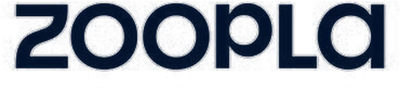
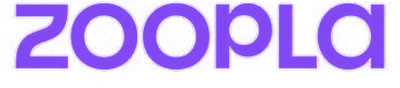
feat(wave415): the Zoopla mark in Zoopla's own purple
Callum, 19 Sep 2026 about 11:05 UK: "please ensure the Zoopla logo
appears as the Zoopla brands purple colour the same as the ribbon on
the property listing result/match card."

The colour is measured, not guessed. The operator sampled the "Powered
by Zoopla" ribbon off the live platform's property page (deal 692681,
19 Sep 12:10 UK): median pixel #8046F3, dominant exact value #8046F2
under JPEG noise, and #8046F2 is Zoopla's published brand purple.

scripts/wave412-zoopla-ink.py is RENAMED to
scripts/wave415-zoopla-purple.py rather than duplicated, so there is
still one generator and one mark. Only the fill changed, from the
site's ink token to Zoopla's purple; the alpha mask, the shape, the
proportions, the output path and the credit's markup are untouched.

The hex lives in the generator and nowhere else. It is a third party's
brand colour baked into a third party's artwork, not a colour of this
palette, so it is not a token in styles.css and not a literal in a
component.

Measured off the regenerated file: 14,135 opaque pixels, every one
exactly (128, 70, 242). Relative luminance 0.1538, so 5.15:1 on the
white page ground and 4.58:1 on the cream band, both clear of the 3:1
WCAG 2.2 SC 1.4.11 asks of a graphic and the first clear of 4.5:1 too.

public/images/brand/zoopla-ink-400.webp is regenerated through
scripts/wave414-responsive-images.py, which preserved its alpha: the
alpha check passes and reports 24 transparent sources with every
variant still transparent.
[…]

diff --git a/src/components/home/hero.tsx b/src/components/home/hero.tsx
@@ -315,13 +315,21 @@ export function HomeHero() {
          * with the wait-list button directly above. At the foot it closes
          * the section, sits on the fold, and competes with nothing.
          *
-         * WAVE 412: THE NAVY MARK, NOT THE WHITE ONE. Zoopla's own file is
-         * white-on-purple and the site carried their reversed, white-on-
-         * transparent mark, which on a white page is an empty rectangle. The
-         * navy file is the same alpha mask filled with the ink token instead
-         * of white, made by scripts/wave412-zoopla-ink.py and committed. It
-         * is a derived one-colour rendering of a one-colour mark; Zoopla's
-         * own dark colourway should replace it when Callum can ask for it.
+         * WAVE 415: ZOOPLA'S OWN PURPLE, NOT THE SITE'S NAVY. Zoopla's file
+         * is white-on-purple and the site carried their reversed, white-on-
+         * transparent mark, which on a white page is an empty rectangle.
+         * Wave 412 filled that alpha mask with the site's ink token as an
+         * honest stand-in; wave 415 fills it with Zoopla's own published
+         * brand purple, #8046F2, sampled off the "Powered by Zoopla" ribbon
+         * on the platform's listing card and asked for by Callum on 19 Sep
+         * 2026. Made by scripts/wave415-zoopla-purple.py and committed; the
+         * hex lives in that generator and in no component and no token,
+         * because it is a third party's brand colour baked into a third
+         * party's artwork rather than a colour of this palette. It measures
+         * 5.15:1 on the white page ground and 4.58:1 on the cream, both
+         * clear of the 3:1 a graphic needs. It is still a DERIVED one-colour
+         * rendering of a one-colour mark; Zoopla's own positive colourway
+         * should replace it when Callum can ask for the real file.
          *
          * THE AGREEMENT THAT BACKS THIS CLAIM sits with the backend team â€”
          * it is a Zoopla data agreement for the platform, and the line was

diff --git a/scripts/wave415-zoopla-purple.py b/scripts/wave415-zoopla-purple.py
@@ -1,0 +1,75 @@
+"""Derive the purple Zoopla wordmark from the white one.
+
+    python scripts/wave415-zoopla-purple.py
+
+`public/images/brand/zoopla-white.webp` is Zoopla's reversed wordmark: pure
+white pixels carried by an alpha mask, keyed from the supplied artwork for a
+navy ground. Wave 412 turned the site's ground white, where a white wordmark
+is an empty rectangle, and filled the mask with the site's own ink token
+instead. That was an honest stand-in and it was never Zoopla's colour.
+
+WAVE 415 SUPERSEDES scripts/wave412-zoopla-ink.py, WHICH THIS FILE IS.
+There is still ONE generator and ONE mark; only the fill changed, from the
+site's navy ink to Zoopla's own brand purple. No shape, proportion, spacing
+or output path is touched, so the credit's markup does not change at all.
+
+THE COLOUR IS MEASURED, NOT GUESSED. The operator sampled the "Powered by
+Zoopla" ribbon off the live platform's property page (deal 692681, 19 Sep
+2026 12:10 UK): the ribbon's median pixel is #8046F3 with #8046F2 as the
+dominant exact value under JPEG noise, and #8046F2 is Zoopla's published
+brand purple. Callum asked for exactly this on 19 Sep 2026 about 11:05 UK:
+"please ensure the Zoopla logo appears as the Zoopla brands purple colour
+the same as the ribbon on the property listing result/match card."
+
+    #8046F2 relative luminance  0.1538
+    #8046F2 on white  #ffffff   5.15:1
+    #8046F2 on cream  #f7f1e6   4.58:1
+
+Both clear the 3:1 that WCAG 2.2 SC 1.4.11 asks of a graphic, and the mark
+draws on white in the home hero. The measured figures off the rendered shot
+are in docs/WAVE415_REPORT.md section 2.
+
+⚠ THIS IS STILL A DERIVED MARK, NOT A SUPPLIED ONE. The fill is now Zoopla's
+published brand purple rather than the site's ink, which is closer to their
+guidelines than wave 412 was, but the artwork is their reversed file keyed
+over. Zoopla will have its own positive colourway and its own rules for
+minimum size and clear space; this is the honest stand-in until Callum can
+ask for the real file. Listed as a proposal in docs/WAVE415_REPORT.md.
+
+The output is committed, so this script is a record of how it was made and a
+check that it can be made again rather than something the build runs. Run it
+and `git diff` should be empty.
+"""
+
+from pathlib import Path
+
+from PIL import Image
+
+ROOT = Path(__file__).resolve().parents[1]
+SRC = ROOT / "public" / "images" / "brand" / "zoopla-white.webp"
+OUT = ROOT / "public" / "images" / "brand" / "zoopla-ink.webp"
+
+# Zoopla's published brand purple, sampled off the live listing ribbon.
+# ⚠ THIS HEX LIVES HERE AND NOWHERE ELSE. It is a third party's brand colour
+# baked into a third party's artwork, not a token of this site's palette, so
+# it must never appear in src/styles.css or in a component.
+PURPLE = (0x80, 0x46, 0xF2)
+
+
+def main() -> None:
+    before = OUT.stat().st_size if OUT.exists() else 0
+    source = Image.open(SRC).convert("RGBA")
+    alpha = source.getchannel("A")
+    mark = Image.new("RGBA", source.size, PURPLE + (255,))
+    mark.putalpha(alpha)
+    mark.save(OUT, "WEBP", lossless=True, quality=100)
+    after = OUT.stat().st_size
+    print(
+        f"wrote {OUT.relative_to(ROOT)} "
+        f"(#{PURPLE[0]:02X}{PURPLE[1]:02X}{PURPLE[2]:02X}, "
+        f"{after} bytes from {before}, {source.size[0]}x{source.size[1]})"
+    )
+
+
+if __name__ == "__main__":
+    main()
